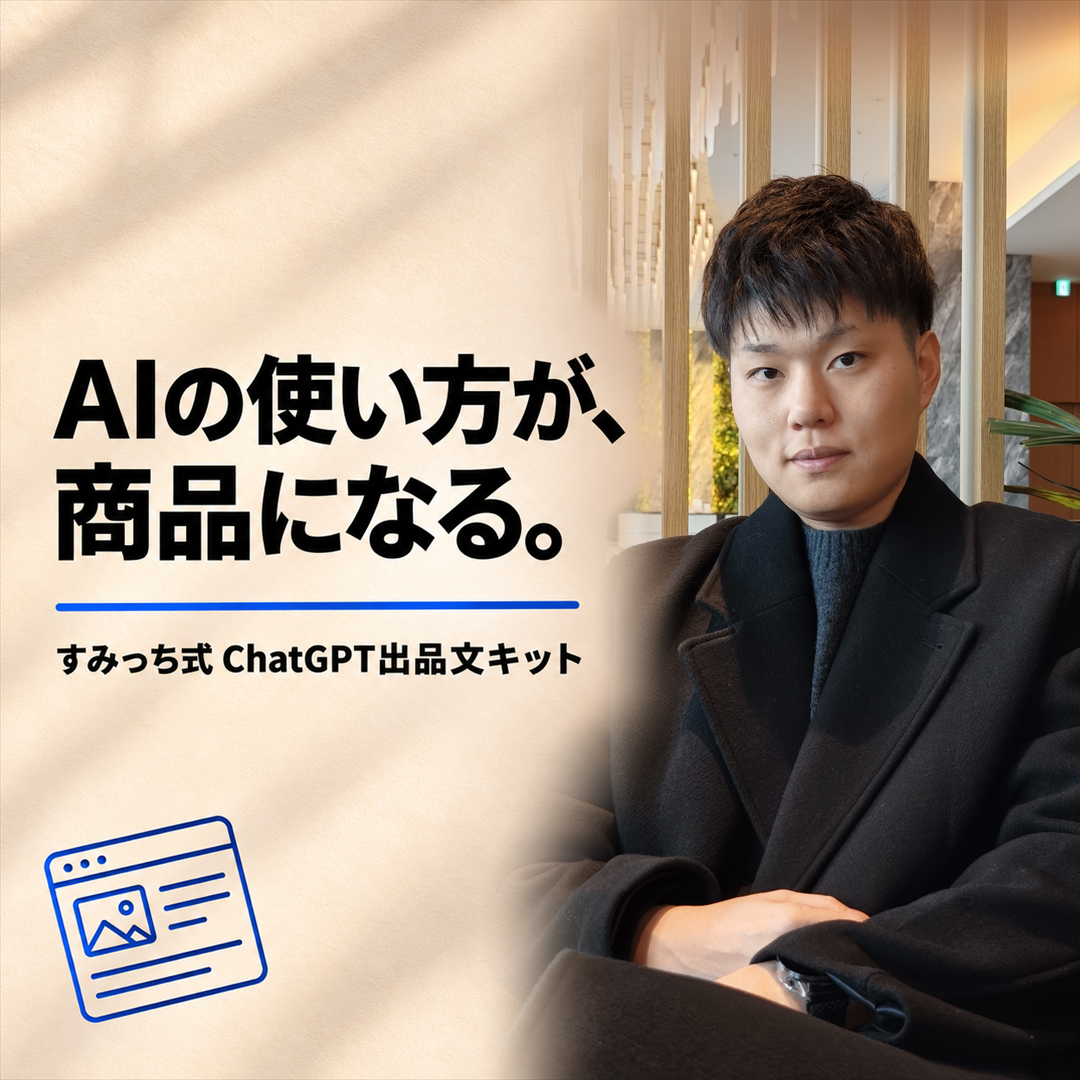
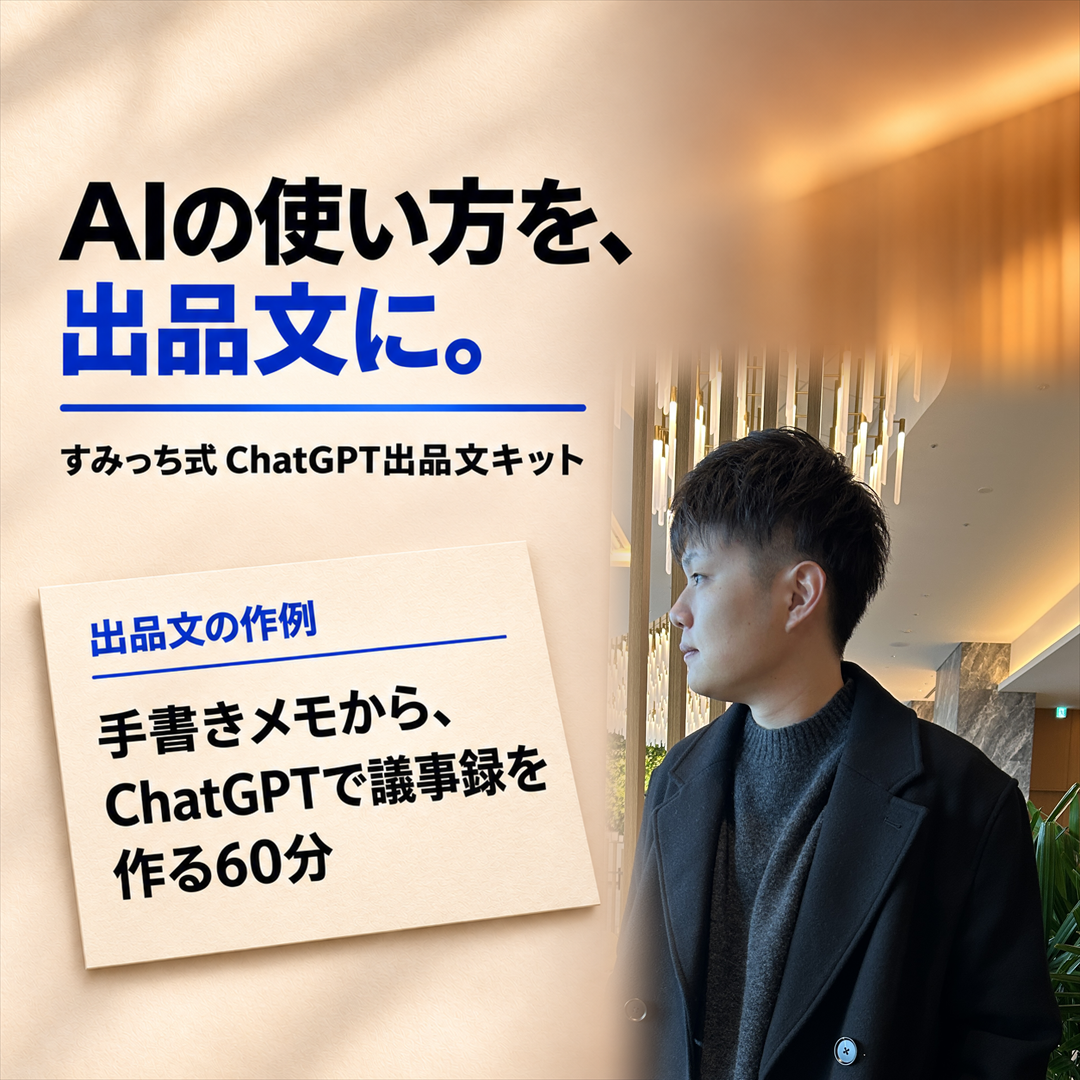
Show the lesson listing example on the No. 5 cover

diff --git a/index.html b/index.html
@@ -263,7 +263,7 @@ main .final-sample{margin-top:21px}
 @media(prefers-reduced-motion:reduce){*,*::before,*::after{scroll-behavior:auto!important;animation:none!important;transition:none!important}}
 </style></head>
 <body>
-<header class="hero" style="--hero-paper:#eee3d3;--hero-ink:#162132"><h1 style="margin:0"><img src="assets/cover.png?v=5" width="1080" height="1080" alt="すみっち式 ChatGPT出品文キット"></h1><p>仕事で身につけたAIの使い方から、人に教えられることを見つけて出品文にする。</p></header>
+<header class="hero" style="--hero-paper:#eee3d3;--hero-ink:#162132"><h1 style="margin:0"><img src="assets/cover.png?v=6" width="1080" height="1080" alt="すみっち式 ChatGPT出品文キット"></h1><p>仕事で身につけたAIの使い方から、人に教えられることを見つけて出品文にする。</p></header>
 
 <aside class="s3-top" aria-label="LINE登録者限定の特典">
 
